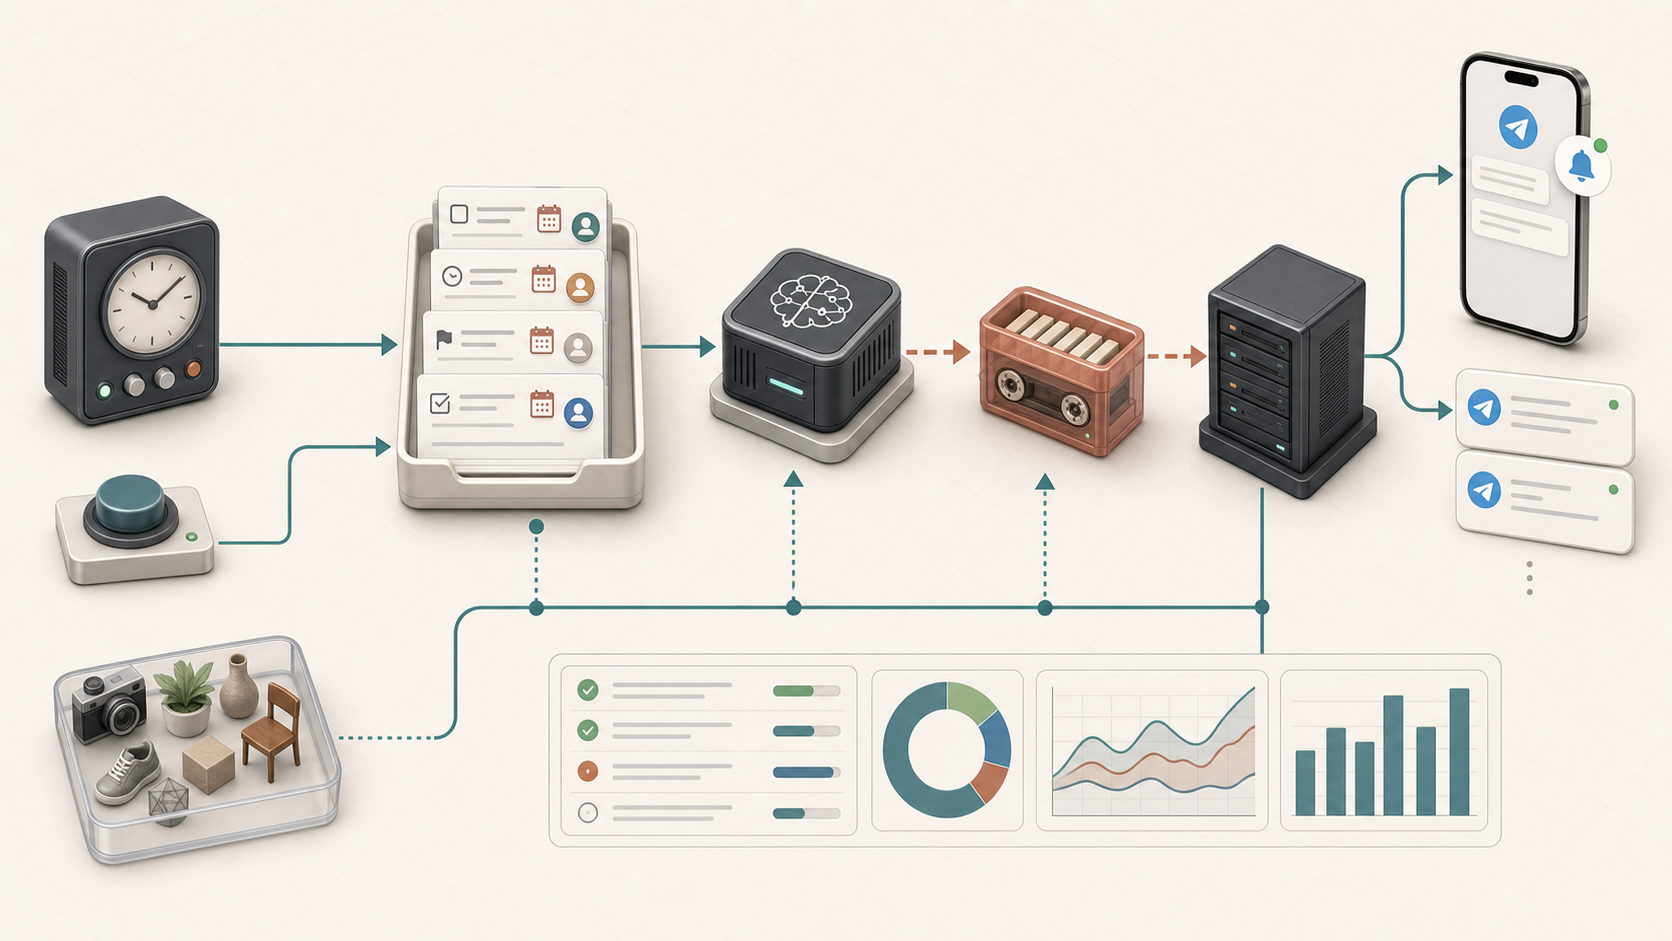
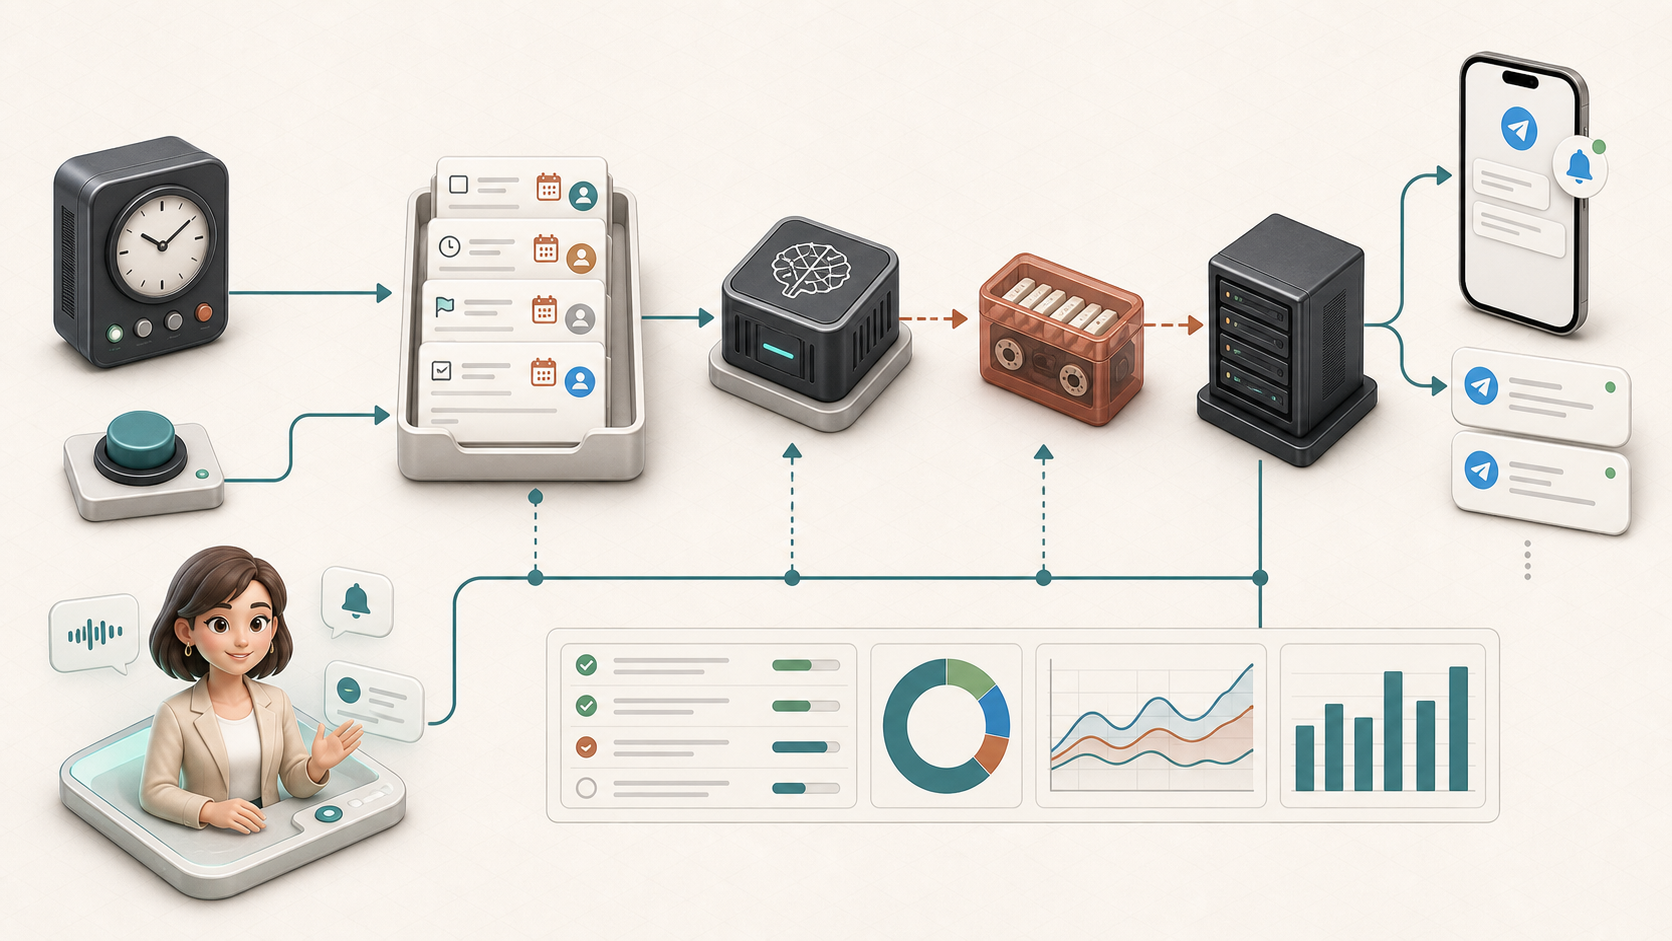
feat: polish showcase media and captions

Changed region(s): [[0.0, 0.1233, 0.9952, 0.9862], [0.8397, 0.0308, 0.9641, 0.2774]]

diff --git a/site/index.html b/site/index.html
@@ -73,31 +73,31 @@
           </section>
 
           <section class="media-panel" data-panel="screen" role="tabpanel" hidden>
-            <a class="visual-link" href="./assets/screen-workspace.svg" target="_blank" rel="noreferrer">
-              <img src="./assets/screen-workspace.svg" alt="Макет основного экрана DTM: таймлайн, фильтры, карточка задачи и аналитика" />
+            <a class="visual-link" href="./assets/Screenshot%202026-06-16%20012844.png" target="_blank" rel="noreferrer">
+              <img src="./assets/Screenshot%202026-06-16%20012844.png" alt="Реальный экран DTM: таймлайн задач дизайн-отдела, фильтры, дизайнеры и сроки" />
             </a>
-            <p class="caption">Экран сервиса: календарный таймлайн, фильтры, task drawer, вложения и быстрые показатели проекта.</p>
+            <p class="caption">Реальный экран сервиса. Команда видит задачи на календарном таймлайне: дизайнеры сгруппированы слева, задачи тянутся по датам, а фильтры сверху быстро переключают срезы по бренду, формату и шоу.</p>
           </section>
 
           <section class="media-panel" data-panel="back" role="tabpanel" hidden>
             <a class="visual-link" href="./assets/backend-generated.png" target="_blank" rel="noreferrer">
               <img src="./assets/backend-generated.png" alt="Генеративная backend-схема DTM: Google Sheets, snapshot, object storage, access API, очередь и workers" />
             </a>
-            <p class="caption">Backend: быстрый read-path отделён от команд, очередей и тяжёлых worker-операций.</p>
+            <p class="caption">Backend-часть собирает рабочую таблицу в подготовленный снимок данных для браузера. Быстрое чтение идёт по верхнему потоку: таблица → snapshot → хранилище → API → интерфейс. Действия с побочными эффектами, например вложения и напоминания, уходят в очередь и выполняются worker-ами отдельно.</p>
           </section>
 
           <section class="media-panel" data-panel="front" role="tabpanel" hidden>
             <a class="visual-link" href="./assets/frontend-generated.png" target="_blank" rel="noreferrer">
               <img src="./assets/frontend-generated.png" alt="Генеративная frontend-схема DTM: desktop, mobile, Telegram Mini App, React SPA, snapshot lifecycle и access plane" />
             </a>
-            <p class="caption">Frontend: одна React/Vite SPA собирает desktop, mobile, analytics, admin и Telegram-shell поверх общих контрактов.</p>
+            <p class="caption">Frontend-часть — это один React/Vite-интерфейс для desktop, мобильного режима, аналитики и админских сценариев. Он не пересобирает данные на лету, а читает готовый snapshot, применяет фильтры и показывает разные рабочие экраны поверх одного контракта данных.</p>
           </section>
 
           <section class="media-panel" data-panel="notification" role="tabpanel" hidden>
             <a class="visual-link" href="./assets/notification-generated.png" target="_blank" rel="noreferrer">
               <img src="./assets/notification-generated.png" alt="Генеративная схема уведомлений DTM: scheduler, reminder context, LLM enhancer, queue, worker и Telegram delivery" />
             </a>
-            <p class="caption">Уведомления: планировщик собирает контекст задач, усиливает текст и доставляет напоминания в Telegram.</p>
+            <p class="caption">Контур уведомлений отправляет напоминания от лица виртуальной помощницы. Планировщик берёт задачи, сроки и ответственных из подготовленного snapshot, собирает понятный текст, ставит отправку в очередь и доставляет сообщение в Telegram, сохраняя статус выполнения.</p>
           </section>
         </div>
       </section>
@@ -147,8 +147,14 @@
 
       <section class="section" id="repositories">
         <p class="kicker">РЕПОЗИТОРИИ ПРОЕКТА</p>
-        <h2>Два репозитория, одна система.</h2>
+        <h2>Рабочий сайт и два репозитория.</h2>
         <div class="repo-grid">
+          <a class="repo" href="https://dtm.solofarm.ru" target="_blank" rel="noreferrer">
+            <span>Live product</span>
+            <strong>dtm.solofarm.ru</strong>
+            <p>Рабочий интерфейс DTM: таймлайн задач, фильтры, загрузка дизайнеров и ежедневная витрина состояния дизайн-отдела.</p>
+            <b>Открыть сайт →</b>
+          </a>
           <a class="repo" href="https://github.com/yrsolo/DTM" target="_blank" rel="noreferrer">
             <span>Backend / Python</span>
             <strong>yrsolo/DTM</strong>

diff --git a/site/styles.css b/site/styles.css
@@ -324,7 +324,7 @@ h3 {
 }
 
 .repo-grid {
-  grid-template-columns: repeat(2, 1fr);
+  grid-template-columns: repeat(3, 1fr);
   margin-top: 24px;
 }
 

diff --git a/work/roadmap/campaigns/CAM-2026-06-16-SHOWCASE-COPY-MEDIA-POLISH-V1/evidence.md b/work/roadmap/campaigns/CAM-2026-06-16-SHOWCASE-COPY-MEDIA-POLISH-V1/evidence.md
@@ -1,0 +1,37 @@
+# Evidence
+
+## Freshness And Trust
+
+- source: owner request in current chat
+  - last_verified_at: 2026-06-16
+  - verified_by: Codex
+  - evidence: Owner requested replacing the object tray in the notification image with a friendly female virtual character, using `site/assets/Screenshot 2026-06-16 012844.png` for the site screenshot, clarifying scheme descriptions, and adding `https://dtm.solofarm.ru`.
+  - trust_level: high
+  - notes: Direct current owner instruction.
+- source: current repo state
+  - last_verified_at: 2026-06-16
+  - verified_by: Codex
+  - evidence: `git status --short --branch` showed `dev...origin/dev`; the requested screenshot exists as `site/assets/Screenshot 2026-06-16 012844.png` and is currently untracked.
+  - trust_level: high
+  - notes: Static site polish only.
+
+## Implementation Evidence
+
+- source: notification visual edit
+  - last_verified_at: 2026-06-16
+  - verified_by: Codex
+  - evidence: Used the built-in image generation/edit flow to replace the lower-left object tray in `site/assets/notification-generated.png` with a friendly female virtual assistant character while preserving the notification workflow topology. The edit prompt is saved in `site/diagram-prompts.md`.
+  - trust_level: high
+  - notes: The edited image was visually inspected before replacing the project asset.
+- source: page copy and media references
+  - last_verified_at: 2026-06-16
+  - verified_by: Codex
+  - evidence: `screen` tab now references `site/assets/Screenshot 2026-06-16 012844.png`; scheme captions now describe what each visual shows and how the flow works; repositories section now includes `https://dtm.solofarm.ru`.
+  - trust_level: high
+  - notes: HTML uses URL-encoded spaces for the screenshot path.
+- source: local static/browser checks
+  - last_verified_at: 2026-06-16
+  - verified_by: Codex
+  - evidence: Local asset reference parser found 9 local refs and 0 missing files. Local server returned HTTP 200 for `/` and the URL-encoded screenshot path. Headless Edge rendered `#screen` and `#notification` screenshots for visual review. `https://dtm.solofarm.ru` returned HTTP 200.
+  - trust_level: high
+  - notes: The notification image is 1672x941; the provided site screenshot is 1933x1054.

diff --git a/work/roadmap/campaigns/CAM-2026-06-16-SHOWCASE-COPY-MEDIA-POLISH-V1/charter.md b/work/roadmap/campaigns/CAM-2026-06-16-SHOWCASE-COPY-MEDIA-POLISH-V1/charter.md
@@ -1,0 +1,19 @@
+# CAM-2026-06-16-SHOWCASE-COPY-MEDIA-POLISH-V1
+
+## Goal
+
+Polish the public DTM showcase after owner review: update the notification visual, use the real site screenshot, make scheme captions understandable, add the live product URL, and redeploy.
+
+## Scope
+
+- Replace the lower-left object tray in the notification diagram with a friendly virtual assistant/persona character.
+- Set the `screen` tab to `site/assets/Screenshot 2026-06-16 012844.png`.
+- Rewrite captions under `screen`, `back`, `front`, and `notification` tabs so they explain what each visual shows and how the flow works.
+- Add a visible link to `https://dtm.solofarm.ru`.
+- Save updated image-generation prompt notes and verification evidence.
+
+## Out Of Scope
+
+- Backend/frontend runtime code.
+- Cloud infrastructure or domain/DNS changes.
+- Secrets or production configuration.

diff --git a/site/diagram-prompts.md b/site/diagram-prompts.md
@@ -55,6 +55,16 @@ Text: no generated text, no labels, no letters.
 Constraints: no logos, no people, no fake email/SMS channels, no invented notification vendor, no code text, no watermark, no blurry microtext, no decorative dust, keep the topology technically plausible and readable.
 ```
 
+## Notification Persona Edit
+
+```text
+Edit the provided DTM notification workflow infographic. Preserve the entire image style, canvas, lighting, arrows, scheduler clock, task tray, AI processor, queue cassette, worker server, Telegram phone/cards, and bottom analytics rail.
+
+Change only the lower-left transparent tray that currently contains assorted objects (camera, plant, vase, chair, shoe, cube). Replace that tray with a friendly young female virtual assistant character, the persona from whose voice notifications are written. She should fit the same light isometric 3D infographic style: approachable, professional, warm, slightly stylized, seated or standing on a small clean platform, with a small chat/notification aura or message cards around her. Keep her non-photorealistic, product-infographic friendly, no brand logos, no text, no letters.
+
+Important constraints: do not alter the main flow topology; keep the teal connection line from the persona area into the reminder/status flow; keep the warm off-white background and subtle grid; keep all other modules in their original positions; no extra people; no watermark; no generated text.
+```
+
 ## Regeneration Rules
 
 - Use the attached reference style: light isometric product-engineering infographic, not a dry vector architecture chart.

diff --git a/work/roadmap/campaigns/CAM-2026-06-16-SHOWCASE-COPY-MEDIA-POLISH-V1/plan.md b/work/roadmap/campaigns/CAM-2026-06-16-SHOWCASE-COPY-MEDIA-POLISH-V1/plan.md
@@ -1,0 +1,7 @@
+# Plan
+
+1. Verify current assets and page references.
+2. Generate/edit the notification diagram asset and save prompt notes.
+3. Update HTML copy/links and screen tab asset.
+4. Run local static/browser checks.
+5. Commit on `dev`, deploy via `main`, verify Pages, then close tracking.

diff --git a/work/now/campaign.md b/work/now/campaign.md
@@ -6,7 +6,7 @@ Single source of truth for current campaign lifecycle state.
 - CAM-2026-03-15-TASK-ATTACHMENTS-LIVE-SMOKE-V1
 
 ## In Progress
-- none
+- CAM-2026-06-16-SHOWCASE-COPY-MEDIA-POLISH-V1
 
 ## Planned
 - none

diff --git a/work/roadmap/backlog.md b/work/roadmap/backlog.md
@@ -4,7 +4,7 @@
 - CAM-2026-03-15-TASK-ATTACHMENTS-LIVE-SMOKE-V1
 
 ## In Progress
-- none
+- CAM-2026-06-16-SHOWCASE-COPY-MEDIA-POLISH-V1
 
 ## Planned
 - none

diff --git a/work/now/tasks.md b/work/now/tasks.md
@@ -1,5 +1,6 @@
 # Active Tasks
 
+- CAM-2026-06-16-SHOWCASE-COPY-MEDIA-POLISH-V1: replace notification diagram persona object with a friendly virtual assistant character, use the provided real site screenshot in the screen tab, clarify scheme captions, add the live product link, deploy to Pages.
 - CAM-2026-03-15-TASK-ATTACHMENTS-LIVE-SMOKE-V1: `test` live smoke passed end-to-end; the only remaining blocker is rerunning the same smoke after the manual production release workflow is executed.
 
 ## Recent Done